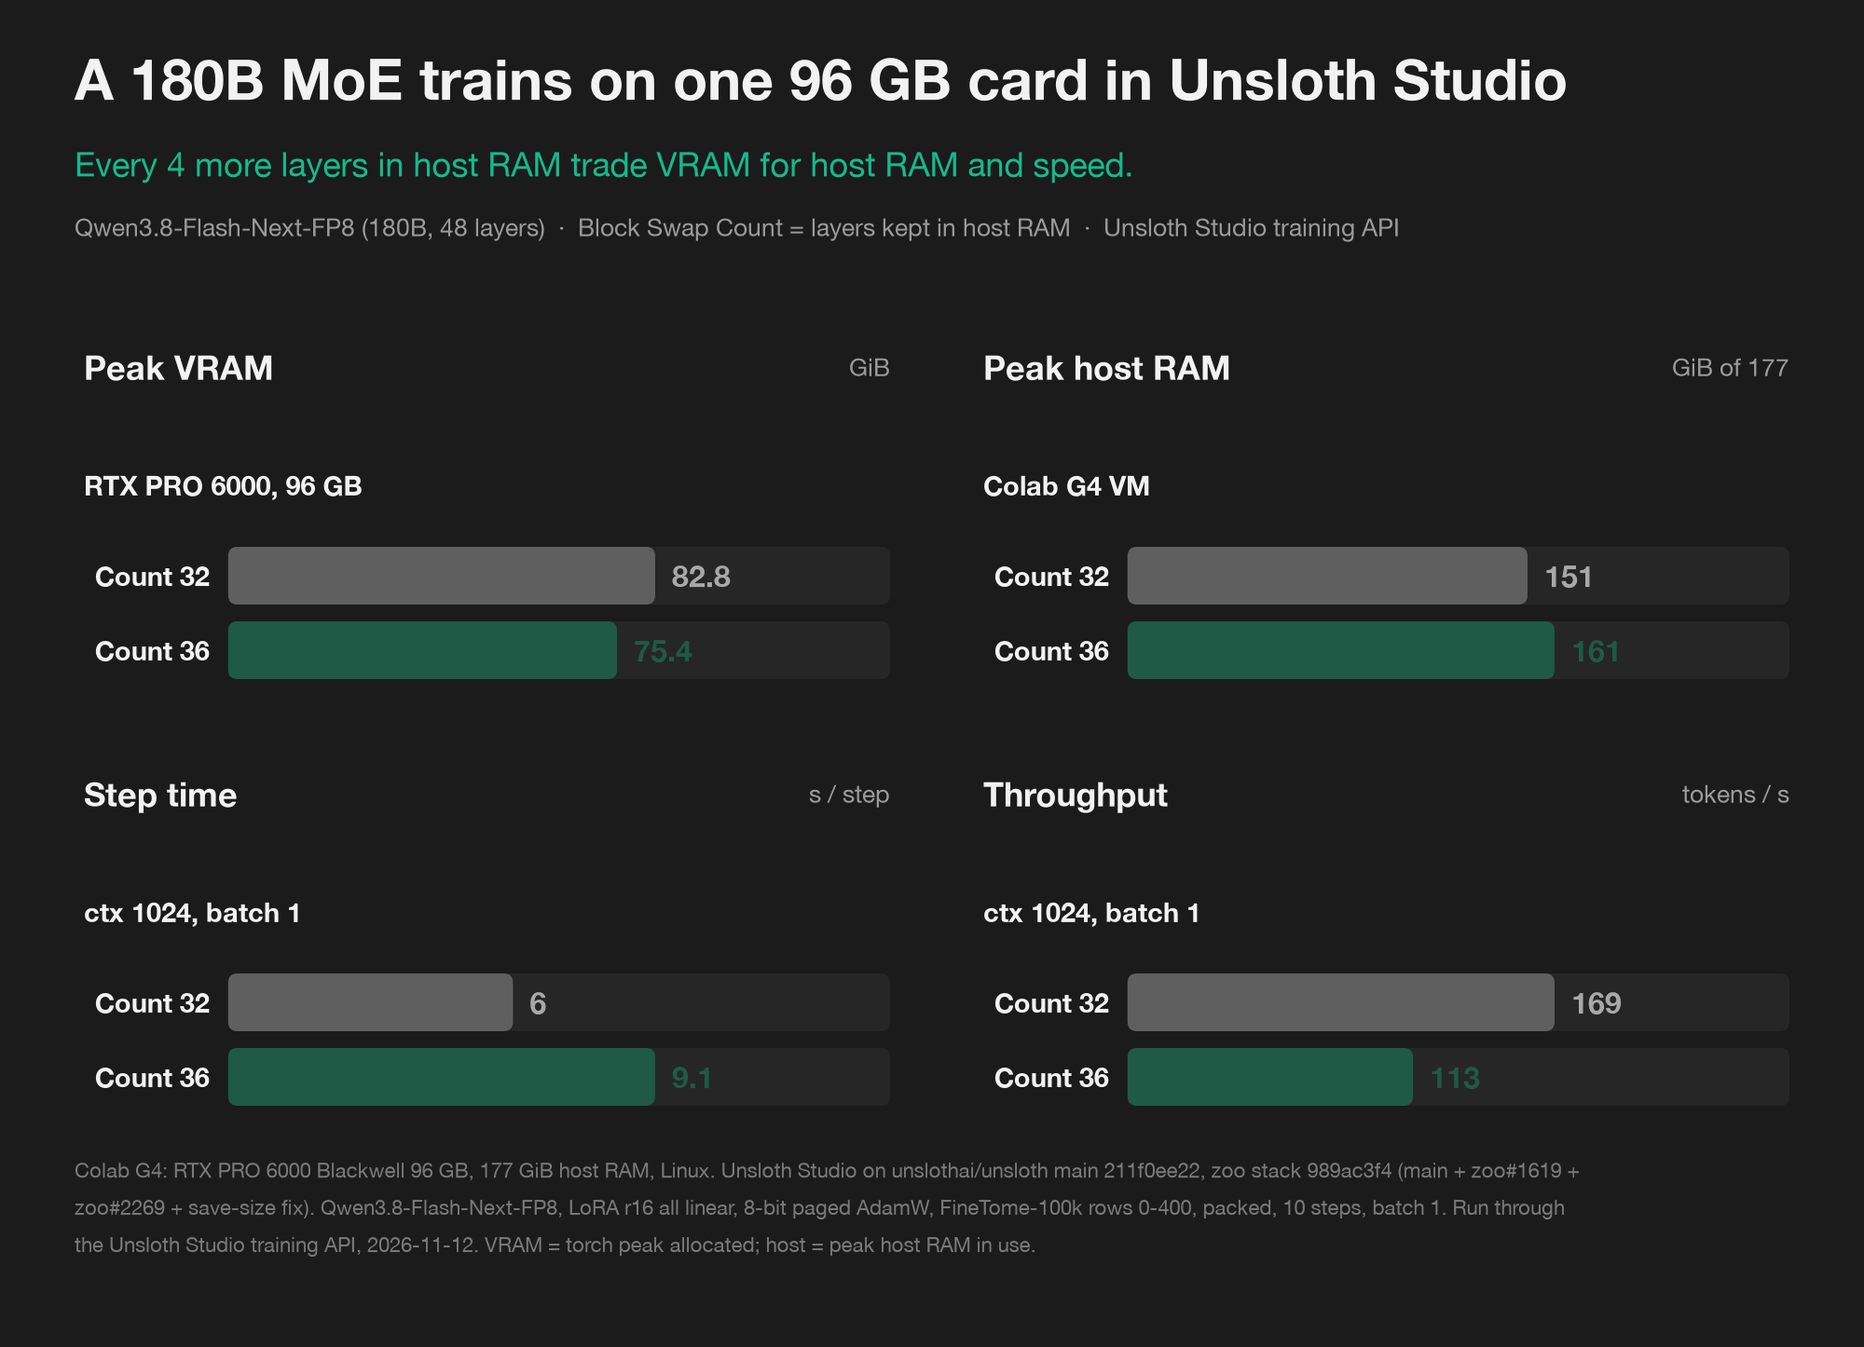
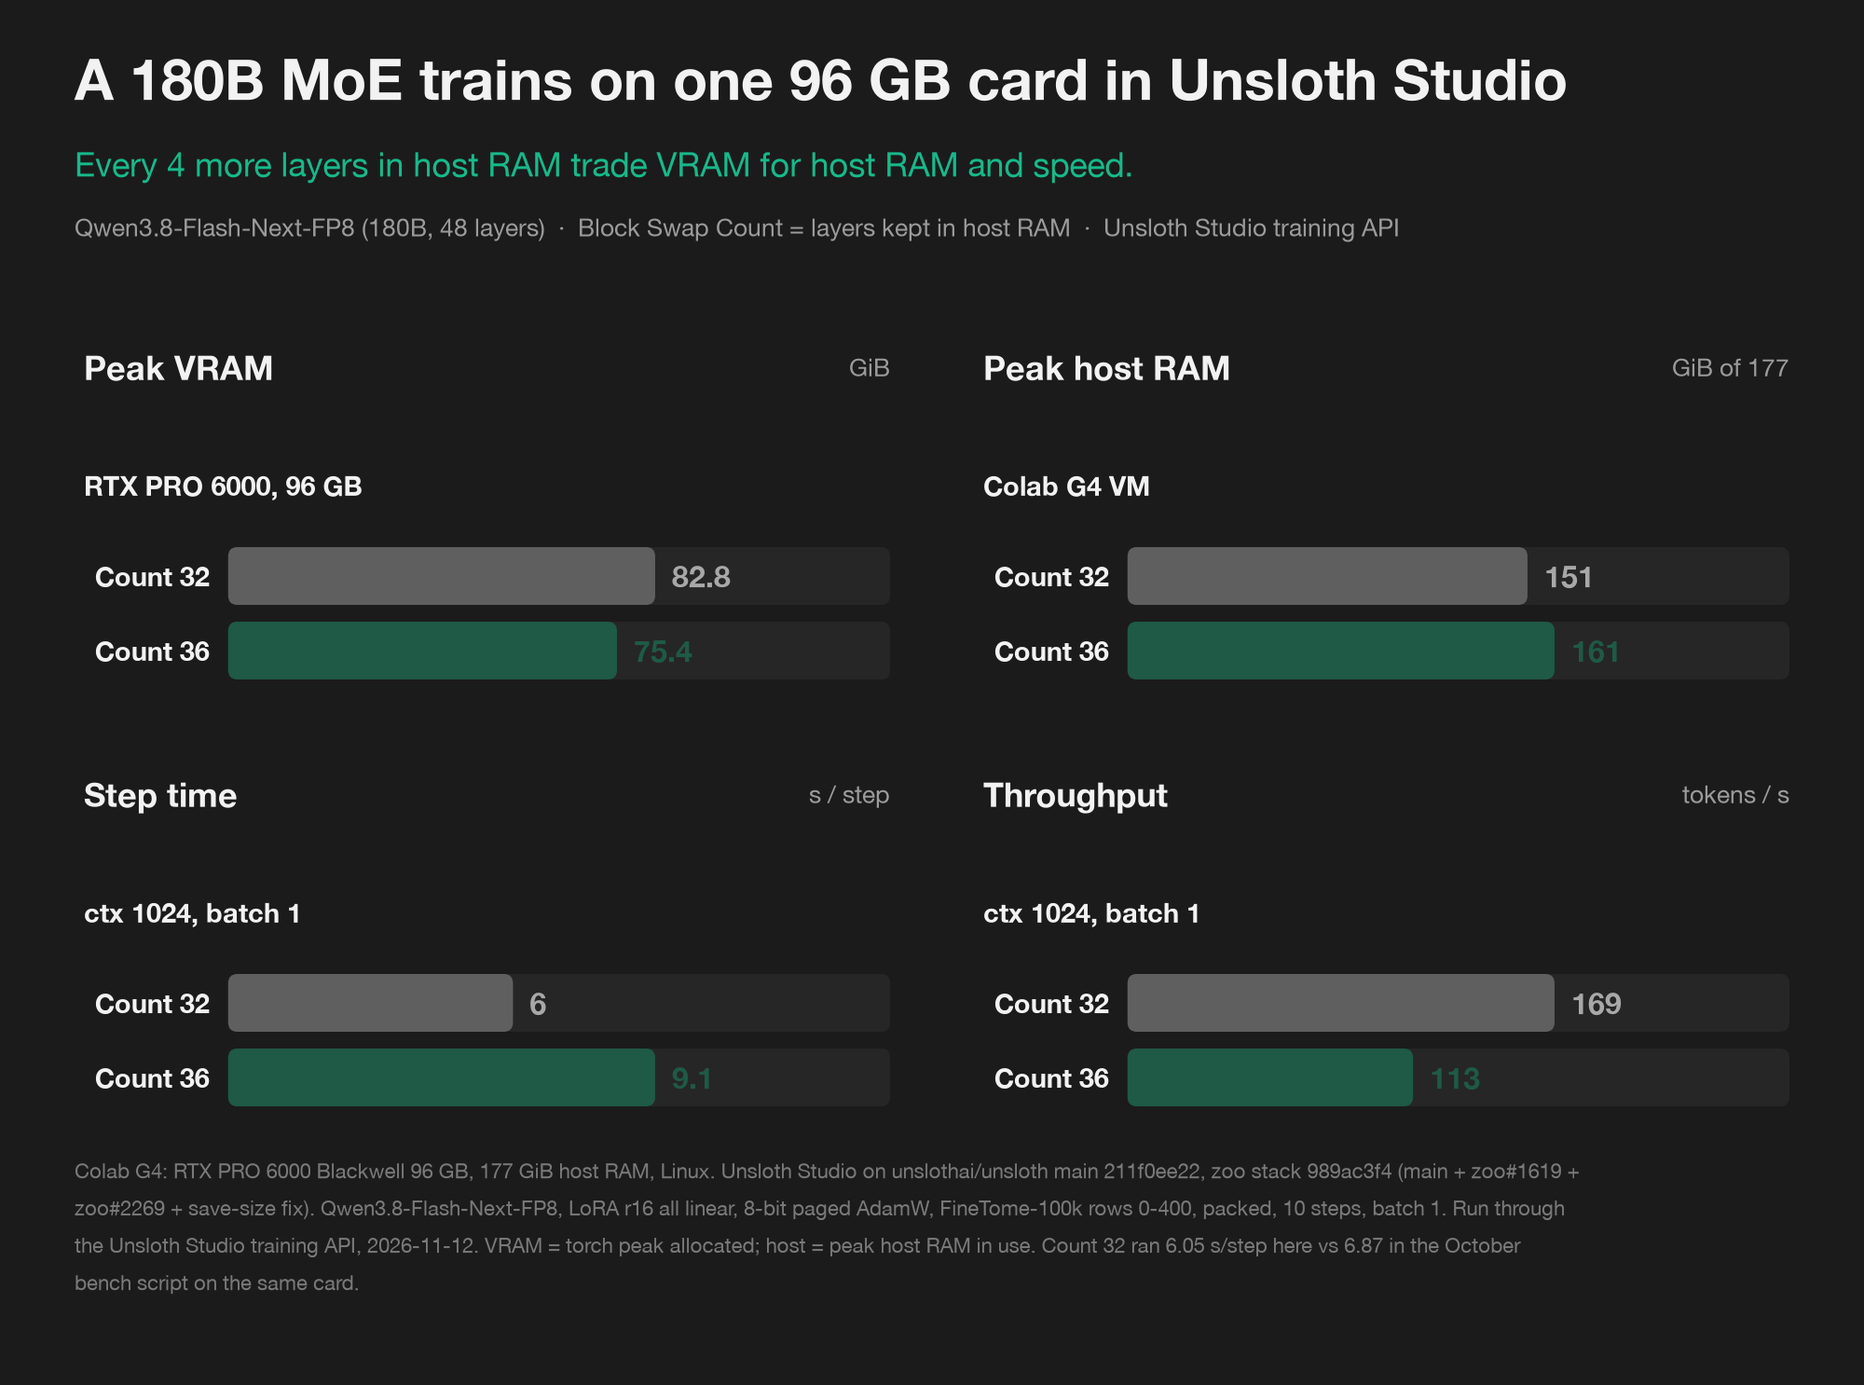
Flash-Next sweep: hero, copy vs compute, memory split and fit charts; three start-to-end GIFs

diff --git a/flash-next-sweep/make_charts.py b/flash-next-sweep/make_charts.py
@@ -1,0 +1,234 @@
+"""Real Flash-Next sweep charts from ../../pulled/*/runs/*.json (Unsloth Studio training API on Colab G4)."""
+import glob, json, os, sys
+sys.path.insert(0, os.path.expanduser('~/.claude/skills/thick-charts'))
+import thick_charts as tc
+import matplotlib.pyplot as plt
+from matplotlib.patches import FancyBboxPatch
+
+H = os.path.dirname(os.path.abspath(__file__))
+R = {}
+def own_samples(d):
+    # The first polls of a run can still read the previous run's phase: keep from the last loading_model on.
+    sm = d.get('samples') or []
+    i = max((j for j, s in enumerate(sm) if s[1] == 'loading_model'), default = None)
+    if i is None: return sm
+    while i > 0 and sm[i - 1][1] == 'loading_model': i -= 1
+    return sm[i:]
+
+
+for f in glob.glob(os.path.join(H, '../../pulled/*/runs/*.json')):
+    n = os.path.basename(f)[:-5].replace('-onlinetok', '')
+    d = json.load(open(f)); d['own'] = own_samples(d); R[n] = d
+GIB = 2**30
+ZOO = '989ac3f4'
+FOOT = (f'Colab G4: RTX PRO 6000 Blackwell 96 GB, 177 GiB host RAM, Linux. Unsloth Studio on unslothai/unsloth main 211f0ee22, zoo stack {ZOO} '
+        '(main + zoo#1619 + zoo#2269 + save-size fix). Qwen3.8-Flash-Next-FP8, LoRA r16 all linear, 8-bit paged AdamW, FineTome-100k rows 0-400, '
+        'packed, 10 steps, batch 1. Run through the Unsloth Studio training API, 2026-11-12. VRAM = torch peak allocated; host = peak host RAM in use.')
+BG, TRACK, INK, MUTED, FAINT, GREEN, PINK, BASE = tc.BG, tc.TRACK, tc.INK, tc.MUTED, tc.FAINT, tc.GREEN, tc.PINK, tc.BASE
+
+
+def ok(k):
+    return k in R and R[k]['status'] == 'completed'
+
+
+def vram(k):
+    o = R[k].get('offload') or {}
+    return o.get('vram_peak_bytes', 0) / GIB if o else R[k]['peak_gpu_mib'] / 1024
+
+
+def toks(k):
+    c = R[k]['cfg']; return c.get('ctx', 1024) * c.get('bs', 1) / R[k]['median_step_s']
+
+
+# 0. Hero: Block Swap off vs on. Off = Unsloth Studio's own VRAM estimate (log: usable_gb=94.91 required_gb=372.632, GiB).
+OFF_EST = 372.6
+off = R.get('gif-off-ctx1024')
+off_lab = 'Block Swap off (estimate)'
+hero_on = [(k, l, kd) for k, l, kd in (('nt-c32-ctx1024', 'Block Swap, Count 32', 'new'), ('nt-c36-ctx1024', 'Block Swap, Count 36', 2)) if ok(k)]
+tc.thick_chart(
+    panels = [{'title': 'VRAM to train', 'unit': 'GiB', 'groups': [('Qwen3.8-Flash-Next, LoRA r16', [(off_lab, OFF_EST, 'rival')] +
+                                                                    [(l, round(vram(k), 1), kd) for k, l, kd in hero_on])]},
+              {'title': '96 GB cards needed', 'unit': 'GPUs', 'groups': [('RTX PRO 6000 Blackwell', [('Block Swap off', 4, 'rival'),
+                                                                                                 ('Block Swap on', 1, 'new')])]}],
+    title = 'A 180B MoE on one GPU instead of four',
+    subtitle = 'Block Swap keeps 32 to 36 of 48 layers in host RAM and streams them in as training reaches them.',
+    meta = ['Qwen3.8-Flash-Next-FP8 (180B, 48 layers, 512 experts)', 'Unsloth Studio', 'Colab G4'],
+    footnote = 'Off: VRAM Unsloth Studio estimates for this model with no Block Swap (training log, required_gb=372.632 against usable_gb=94.91 per card). ' + FOOT,
+    out = os.path.join(H, '00-hero'), ncols = 2)
+
+# 1. Count ladder
+counts = [k for k in ('nt-c32-ctx1024', 'nt-c36-ctx1024', 'nt-c40-ctx1024') if ok(k)]
+lab = {k: f"Count {R[k]['cfg']['offload']}" for k in counts}
+kinds = ['base', 0, 2]
+tc.thick_chart(
+    panels = [
+        {'title': 'Peak VRAM', 'unit': 'GiB', 'groups': [('RTX PRO 6000, 96 GB', [(lab[k], round(vram(k), 1), kinds[i]) for i, k in enumerate(counts)])]},
+        {'title': 'Peak host RAM', 'unit': 'GiB of 177', 'groups': [('Colab G4 VM', [(lab[k], round(R[k]['peak_host_used_gib'], 1), kinds[i]) for i, k in enumerate(counts)])]},
+        {'title': 'Step time', 'unit': 's / step', 'groups': [('ctx 1024, batch 1', [(lab[k], R[k]['median_step_s'], kinds[i]) for i, k in enumerate(counts)])]},
+        {'title': 'Throughput', 'unit': 'tokens / s', 'groups': [('ctx 1024, batch 1', [(lab[k], round(toks(k)), kinds[i]) for i, k in enumerate(counts)])]},
+    ],
+    title = 'A 180B MoE trains on one 96 GB card in Unsloth Studio',
+    subtitle = 'Every 4 more layers in host RAM trade VRAM for host RAM and speed.',
+    meta = ['Qwen3.8-Flash-Next-FP8 (180B, 48 layers)', 'Block Swap Count = layers kept in host RAM', 'Unsloth Studio training API'],
+    footnote = FOOT + ' Count 32 ran 6.05 s/step here vs 6.87 in the October bench script on the same card.', out = os.path.join(H, '01-count-ladder'))
+
+# 2. The fork bug: host RAM vs time, aligned at the training phase
+fig = plt.figure(figsize = (10, 6.4))
+fig.text(0.04, 1 - 0.42 / 6.4, 'Why Unsloth Studio killed it: forking a 133 GiB trainer', fontsize = 21, weight = 'bold', va = 'center')
+fig.text(0.04, 1 - 0.88 / 6.4, 'Each fork of the trainer added ~27 GiB of host RAM in seconds and the VM killed it; with no fork, it trains.', fontsize = 12.5, color = GREEN, va = 'center')
+fig.text(0.04, 1 - 1.22 / 6.4, 'Count 32, ctx 1024  ·  host RAM in use on the VM  ·  t = 0 at the training phase', fontsize = 9.5, color = MUTED, va = 'center')
+ax = fig.add_axes([0.08, 0.14, 0.88, 0.6]); ax.set_facecolor(BG)
+for s in ax.spines.values(): s.set_visible(False)
+ax.tick_params(colors = MUTED, length = 0); ax.grid(color = TRACK, lw = 1.2); ax.set_axisbelow(True)
+series = [('c32-ctx1024', 'dataset.map pool forks (defaults)', PINK), ('nt-c32-ctx1024-mapfork', 'dataset.map pool forks (rerun)', '#c9a24a'),
+          ('nt-c32-ctx1024', 'num_proc 1 by env', '#7d9ad6'), ('fix-c32-ctx1024', 'fix branch, no env', GREEN)]
+for k, name, c in series:
+    if k not in R: continue
+    sm = R[k]['own']
+    t0 = next((s[0] for s in sm if s[1] == 'training'), None)
+    if t0 is None: continue
+    keep = [s for s in sm if -60 <= s[0] - t0 <= 120 and s[1] != 'error']
+    keep = keep if R[k]['status'] == 'error' else [s for s in keep if s[0] - t0 <= 100]
+    xs = [s[0] - t0 for s in keep]; ys = [s[3] for s in keep]
+    ax.plot(xs, ys, lw = 5, color = c, solid_capstyle = 'round')
+    killed = R[k]['status'] == 'error'
+    if killed:
+        ax.plot([xs[-1]], [ys[-1]], marker = 'X', ms = 16, color = c)
+        dy = {'c32-ctx1024': 6, 'nt-c32-ctx1024-mapfork': -9}.get(k, 0)
+        ax.text(xs[-1] + 4, ys[-1] + dy, f'killed at {ys[-1]:.0f} GiB: ' + name, color = c, fontsize = 10.5, weight = 'bold', va = 'center')
+    else:
+        ax.text(xs[-1] + 3, ys[-1] + (4 if 'fix' in k else -4), name + ', trains', color = c, fontsize = 10.5, weight = 'bold', va = 'center')
+ax.axhline(177, color = MUTED, lw = 2, ls = (0, (4, 3))); ax.text(-58, 178.5, 'VM limit 177 GiB', color = MUTED, fontsize = 10, weight = 'bold')
+ax.set_xlim(-60, 175); ax.set_ylim(120, 182); ax.set_xlabel('seconds from the training phase', color = MUTED); ax.set_ylabel('host RAM in use, GiB', color = MUTED)
+fig.text(0.04, 0.025, FOOT[:190] + '…', fontsize = 7.5, color = FAINT)
+fig.savefig(os.path.join(H, '02-fork-bug.png'), dpi = 200); fig.savefig(os.path.join(H, '02-fork-bug.svg')); plt.close(fig)
+
+# 3. Every run, one row: trains / VRAM OOM / host kill / guard refused
+rows = []
+order = lambda k: (0 if R[k]['status'] == 'completed' else 1, str(R[k]['cfg']['offload']), k)
+for k, d in sorted(R.items(), key = lambda kv: order(kv[0])):
+    c = d['cfg']; e = (d.get('error') or '')
+    st = 'trains' if d['status'] == 'completed' else 'refused' if 'needs' in e and 'host RAM' in e else 'VRAM OOM' if 'CUDA out of memory' in e else 'host kill' if 'exitcode=-9' in e else d['status']
+    fork = '' if k.startswith('nt-') and not k.endswith('mapfork') else ' (map fork)'
+    desc = f"Count {c['offload']}" + (f", r{c['r']}" if c.get('r') else '') + (', MLP toggle off (ignored)' if c.get('mlp') is False else '') + (f", ctx {c['ctx']}" if c.get('ctx', 1024) != 1024 else '') + (f", batch {c['bs']}" if c.get('bs') else '') + (', 4-bit asked (ran 16-bit)' if c.get('load_in_4bit') else '') + fork
+    rows.append((desc, st, d))
+H3 = 1.8 + 0.42 * len(rows) + 0.5
+fig = plt.figure(figsize = (10, H3))
+fig.text(0.04, 1 - 0.42 / H3, 'Every Flash-Next run in this sweep', fontsize = 21, weight = 'bold', va = 'center')
+fig.text(0.04, 1 - 0.88 / H3, 'Tokenizing in process: Count 32 to 36 train. Count 40 and Auto are refused for host RAM; rank 64 never fits VRAM.', fontsize = 12.5, color = GREEN, va = 'center')
+ax = fig.add_axes([0.04, 0.4 / H3, 0.92, 1 - 1.5 / H3]); ax.axis('off'); ax.set_xlim(0, 10); ax.set_ylim(len(rows), -1.0)
+col = {'trains': GREEN, 'refused': BASE, 'VRAM OOM': PINK, 'host kill': '#c9a24a'}
+ax.text(0, -0.4, 'run', color = MUTED, fontsize = 9.5, weight = 'bold'); ax.text(4.6, -0.4, 'result', color = MUTED, fontsize = 9.5, weight = 'bold')
+ax.text(6.4, -0.4, 'VRAM GiB', color = MUTED, fontsize = 9.5, weight = 'bold'); ax.text(7.7, -0.4, 'host GiB', color = MUTED, fontsize = 9.5, weight = 'bold'); ax.text(8.9, -0.4, 's / step', color = MUTED, fontsize = 9.5, weight = 'bold')
+for i, (desc, st, d) in enumerate(rows):
+    y = i + 0.5
+    ax.text(0, y, desc, va = 'center', fontsize = 11, weight = 'bold')
+    ax.add_patch(FancyBboxPatch((4.6, y - 0.32), 1.5, 0.64, boxstyle = 'round,pad=0,rounding_size=0.08', color = col.get(st, BASE), lw = 0))
+    ax.text(5.35, y, st, ha = 'center', va = 'center', fontsize = 10.5, weight = 'bold', color = BG if st == 'trains' else INK)
+    o = d.get('offload') or {}
+    v = o.get('vram_peak_bytes', 0) / GIB if o else d['peak_gpu_mib'] / 1024
+    ax.text(6.4, y, f'{v:.1f}', va = 'center', fontsize = 11, color = MUTED); ax.text(7.7, y, f"{d['peak_host_used_gib']:.0f}", va = 'center', fontsize = 11, color = MUTED)
+    ax.text(8.9, y, f"{d['median_step_s']:.2f}" if d['median_step_s'] else '-', va = 'center', fontsize = 11, color = MUTED)
+fig.text(0.04, 0.012, 'VRAM: torch peak allocated where the run got far enough to report it, else nvidia-smi peak. Host: peak host RAM in use on the VM. ' + FOOT[:120] + '…', fontsize = 7.5, color = FAINT)
+fig.savefig(os.path.join(H, '03-every-run.png'), dpi = 200); fig.savefig(os.path.join(H, '03-every-run.svg')); plt.close(fig)
+
+# 4. Loss curves of the runs that trained
+fig = plt.figure(figsize = (10, 5.8))
+fig.text(0.04, 1 - 0.42 / 5.8, 'Same loss, step for step, at every Count', fontsize = 21, weight = 'bold', va = 'center')
+fig.text(0.04, 1 - 0.88 / 5.8, 'Moving layers to host RAM changes speed, not the math: the curves overlap.', fontsize = 12.5, color = GREEN, va = 'center')
+ax = fig.add_axes([0.08, 0.15, 0.86, 0.6]); ax.set_facecolor(BG)
+for s in ax.spines.values(): s.set_visible(False)
+ax.tick_params(colors = MUTED, length = 0); ax.grid(color = TRACK, lw = 1.2)
+pal = [BASE, tc.STEPS[1], GREEN, PINK, '#c9a24a', '#7d9ad6', '#b58ad6', '#d6d06b']
+done = [(k, d) for k, d in R.items() if d['status'] == 'completed' and not k.startswith('fix') and d['cfg'].get('ctx', 1024) == 1024 and not d['cfg'].get('bs')]
+for (k, d), c in zip(sorted(done), pal):
+    m = d['metrics']; ax.plot(m['step_history'], m['loss_history'], lw = 4.5, color = c, solid_capstyle = 'round', marker = 'o', ms = 6)
+    m['_label'] = [r for r in rows if r[2] is d][0][0]
+for (k, d), c in zip(sorted(done), pal):
+    pass
+ax.legend([d['metrics']['_label'] for k, d in sorted(done)], frameon = False, labelcolor = INK, fontsize = 10.5, loc = 'upper right')
+fig.text(0.04, 0.03, 'Same data and batches (ctx 1024, batch 1, seed 3407). Per-batch loss: it moves with the batch, not a trend. Same 2.78B trainable parameters in every run.', fontsize = 8, color = FAINT)
+ax.set_xlabel('step', color = MUTED); ax.set_ylabel('loss', color = MUTED)
+fig.savefig(os.path.join(H, '04-loss.png'), dpi = 200); fig.savefig(os.path.join(H, '04-loss.svg')); plt.close(fig)
+
+# 5. Where the time goes in one run, and the guard's refusal vs a kill
+k = 'nt-c32-ctx1024'
+if ok(k):
+    sm = R[k]['own']; spans = []
+    for p in ('loading_model', 'configuring', 'training', 'finalizing'):
+        ts = [x[0] for x in sm if x[1] == p]
+        if ts: spans.append((p, ts[-1] - ts[0] + 3))
+    tc.thick_chart(
+        panels = [{'title': 'Where one run spends its time', 'unit': 'minutes', 'groups': [('Count 32, checkpoint already on disk', [
+            ({'loading_model': 'load 173 GB + install swap', 'configuring': 'configure LoRA', 'training': 'train 10 steps', 'finalizing': 'save adapter'}[p], round(s / 60, 1), i if i < 3 else 'new') for i, (p, s) in enumerate(spans)])]},
+                  {'title': 'Too big for host RAM', 'unit': 'minutes', 'groups': [('How long until you find out', [
+                      ('Count 32 with a fork: loads, then killed', round(R['c32-ctx1024']['elapsed_s'] / 60, 1), 'rival', 'exit -9'),
+                      ('Auto: refused by the guard', max(0.1, round(R['nt-auto-ctx1024']['elapsed_s'] / 60, 1)) if 'nt-auto-ctx1024' in R else 0.1, 'new', 'says how many layers fit')])]}],
+        title = 'Waiting on a 180B model', subtitle = 'Loading is most of a run; zoo#1619 refuses an impossible plan before the load, with a reason.',
+        meta = ['Unsloth Studio', 'Colab G4'], footnote = FOOT + ' The refusal names the layer count that fits; the kill only says exitcode -9.',
+        out = os.path.join(H, '05-time'), ncols = 2)
+# 6. Speed: what a batch or a longer context costs at Count 36
+sp = [(k, l, kind) for k, l, kind in (('nt-c36-ctx1024', 'ctx 1024, batch 1', 'base'), ('nt-c36-bs2', 'ctx 1024, batch 2', 'new'), ('nt-c36-ctx4096', 'ctx 4096, batch 1', 1)) if ok(k)]
+if sp:
+    tc.thick_chart(
+        panels = [{'title': 'Throughput', 'unit': 'tokens / s', 'groups': [('Count 36', [(l, round(toks(k)), kind, f"{R[k]['median_step_s']:.1f} s/step") for k, l, kind in sp])]},
+                  {'title': 'Peak VRAM', 'unit': 'GiB', 'groups': [('Count 36', [(l, round(vram(k), 1), kind) for k, l, kind in sp])]}],
+        title = 'Batch 2 doubles throughput for free', subtitle = 'The step waits on layer copies, so a second sequence rides along at the same step time.',
+        meta = ['Qwen3.8-Flash-Next-FP8', 'Block Swap Count 36', 'Unsloth Studio'], footnote = FOOT.replace('batch 1. ', ''),
+        out = os.path.join(H, '06-speed'), ncols = 2)
+
+# 7. Copy vs compute per layer (Unsloth Studio Offloaded layers panel; the trainer zeroes timing once a run ends)
+PANEL = [('Count 32', 89.9, 93.4), ('Count 36', 96.4, 103.9), ('Count 36, batch 2', 97.4, 106.6), ('Count 36, ctx 4096', 95.7, 514.7)]
+tc.thick_chart(
+    panels = [{'title': 'Copy in vs compute, per swapped layer', 'unit': 'ms', 'groups': [(n, [('copy in from host RAM', c, 'base'),
+              ('compute on the GPU', g, 'new', f'{g / c:.1f}x the copy')]) for n, c, g in PANEL]}],
+    title = 'Why swapping barely costs speed',
+    subtitle = 'The next layer copies in while this one computes, so compute hides the copy; at ctx 4096 compute is 5x it.',
+    meta = ['Qwen3.8-Flash-Next-FP8', 'prefetch depth 2', 'Unsloth Studio Offloaded layers panel'],
+    footnote = 'Per-layer averages read off the Offloaded layers panel on the Unsloth Studio training page mid-run. ' + FOOT,
+    out = os.path.join(H, '07-copy-vs-compute'), ncols = 1)
+
+# 8. Where the 180B lives (Block Swap state the trainer reports)
+live = [(k, l) for k, l in (('nt-c32-ctx1024', 'Count 32'), ('nt-c36-ctx1024', 'Count 36')) if ok(k) and R[k].get('offload')]
+if live:
+    o = {k: R[k]['offload'] for k, _ in live}
+    g = lambda k, f: round(o[k][f] / GIB, 1)
+    tc.thick_chart(
+        panels = [{'title': 'On the GPU', 'unit': 'GiB of 95', 'groups': [(l, [('peak VRAM', g(k, 'vram_peak_bytes'), 'new'),
+                   ('swap slots (part of peak)', g(k, 'pool_bytes'), 1)]) for k, l in live]},
+                  {'title': 'In host RAM', 'unit': 'GiB', 'groups': [(l, [('swapped layers', g(k, 'host_bytes'), 'base'),
+                   ('of which pinned (fast copy)', g(k, 'pinned_bytes'), 'rival', 'the rest is pageable')]) for k, l in live]}],
+        title = 'Where 180B parameters live while training',
+        subtitle = 'About half the 161 GiB model sits in host RAM, and only a sliver of that is pinned for fast copies.',
+        meta = ['Qwen3.8-Flash-Next-FP8', 'Block Swap state reported by the trainer'], footnote = FOOT,
+        out = os.path.join(H, '08-where-it-lives'), ncols = 2)
+
+# 9. What trains on one G4: LoRA rank x Count, Block Swap off first
+cols = ['Block Swap off', 'Count 28', 'Count 32', 'Count 36', 'Count 40', 'Auto (43)']
+def cell(rank, col):
+    if col == 'Block Swap off':
+        d = R.get('gif-off-ctx1024')
+        if rank == 64: return ('not run', TRACK)
+        if not d: return ('pending', TRACK)
+        return ('trains', GREEN) if d['status'] == 'completed' else ('VRAM OOM', PINK) if 'memory' in (d.get('error') or '').lower() else ('fails', PINK)
+    if col in ('Count 40', 'Auto (43)'): return ('refused', BASE) if rank == 16 else ('refused*', BASE)
+    if rank == 64: return ('VRAM OOM', PINK)
+    return {'Count 28': ('untested**', TRACK), 'Count 32': ('trains', GREEN), 'Count 36': ('trains', GREEN)}[col]
+HG = 4.4
+fig = plt.figure(figsize = (10, HG)); fig.patch.set_facecolor(BG)
+fig.text(0.04, 1 - 0.42 / HG, 'What trains on one 96 GB card', fontsize = 21, weight = 'bold', va = 'center', color = INK)
+fig.text(0.04, 1 - 0.88 / HG, 'LoRA rank 16 trains at Count 32 to 36. Rank 64 never fits. The host-RAM guard stops at 39.', fontsize = 12, color = GREEN, va = 'center')
+ax = fig.add_axes([0.03, 0.17, 0.94, 0.58]); ax.axis('off'); ax.set_xlim(-1.7, len(cols)); ax.set_ylim(2.05, -0.5)
+for j, c in enumerate(cols):
+    ax.text(j + 0.5, -0.25, c, ha = 'center', fontsize = 10, color = MUTED, weight = 'bold')
+for i, rank in enumerate((16, 64)):
+    ax.text(-0.12, i + 0.5, f'LoRA rank {rank}', ha = 'right', va = 'center', fontsize = 11.5, weight = 'bold', color = INK)
+    for j, c in enumerate(cols):
+        lab, colr = cell(rank, c)
+        ax.add_patch(FancyBboxPatch((j + 0.06, i + 0.1), 0.88, 0.8, boxstyle = 'round,pad=0,rounding_size=0.12', fc = colr, lw = 0))
+        ax.text(j + 0.5, i + 0.5, lab, ha = 'center', va = 'center', fontsize = 10.5, weight = 'bold', color = BG if colr == GREEN else INK)
+fig.text(0.04, 0.085, '* not run at rank 64: the guard counts layer bytes, which rank does not change.  ** only ran with the dataset.map fork, which killed it for host RAM.', fontsize = 7.5, color = FAINT, wrap = True)
+fig.text(0.04, 0.035, 'Colab G4, RTX PRO 6000 96 GB, 177 GiB host RAM. Unsloth Studio, zoo stack ' + ZOO + ', Qwen3.8-Flash-Next-FP8, ctx 1024, batch 1.', fontsize = 7.5, color = FAINT)
+fig.savefig(os.path.join(H, '09-what-fits.png'), dpi = 200, facecolor = BG); fig.savefig(os.path.join(H, '09-what-fits.svg'), facecolor = BG); plt.close(fig)
+
+print('charts:', sorted(f for f in os.listdir(H) if f.endswith('.png')))
